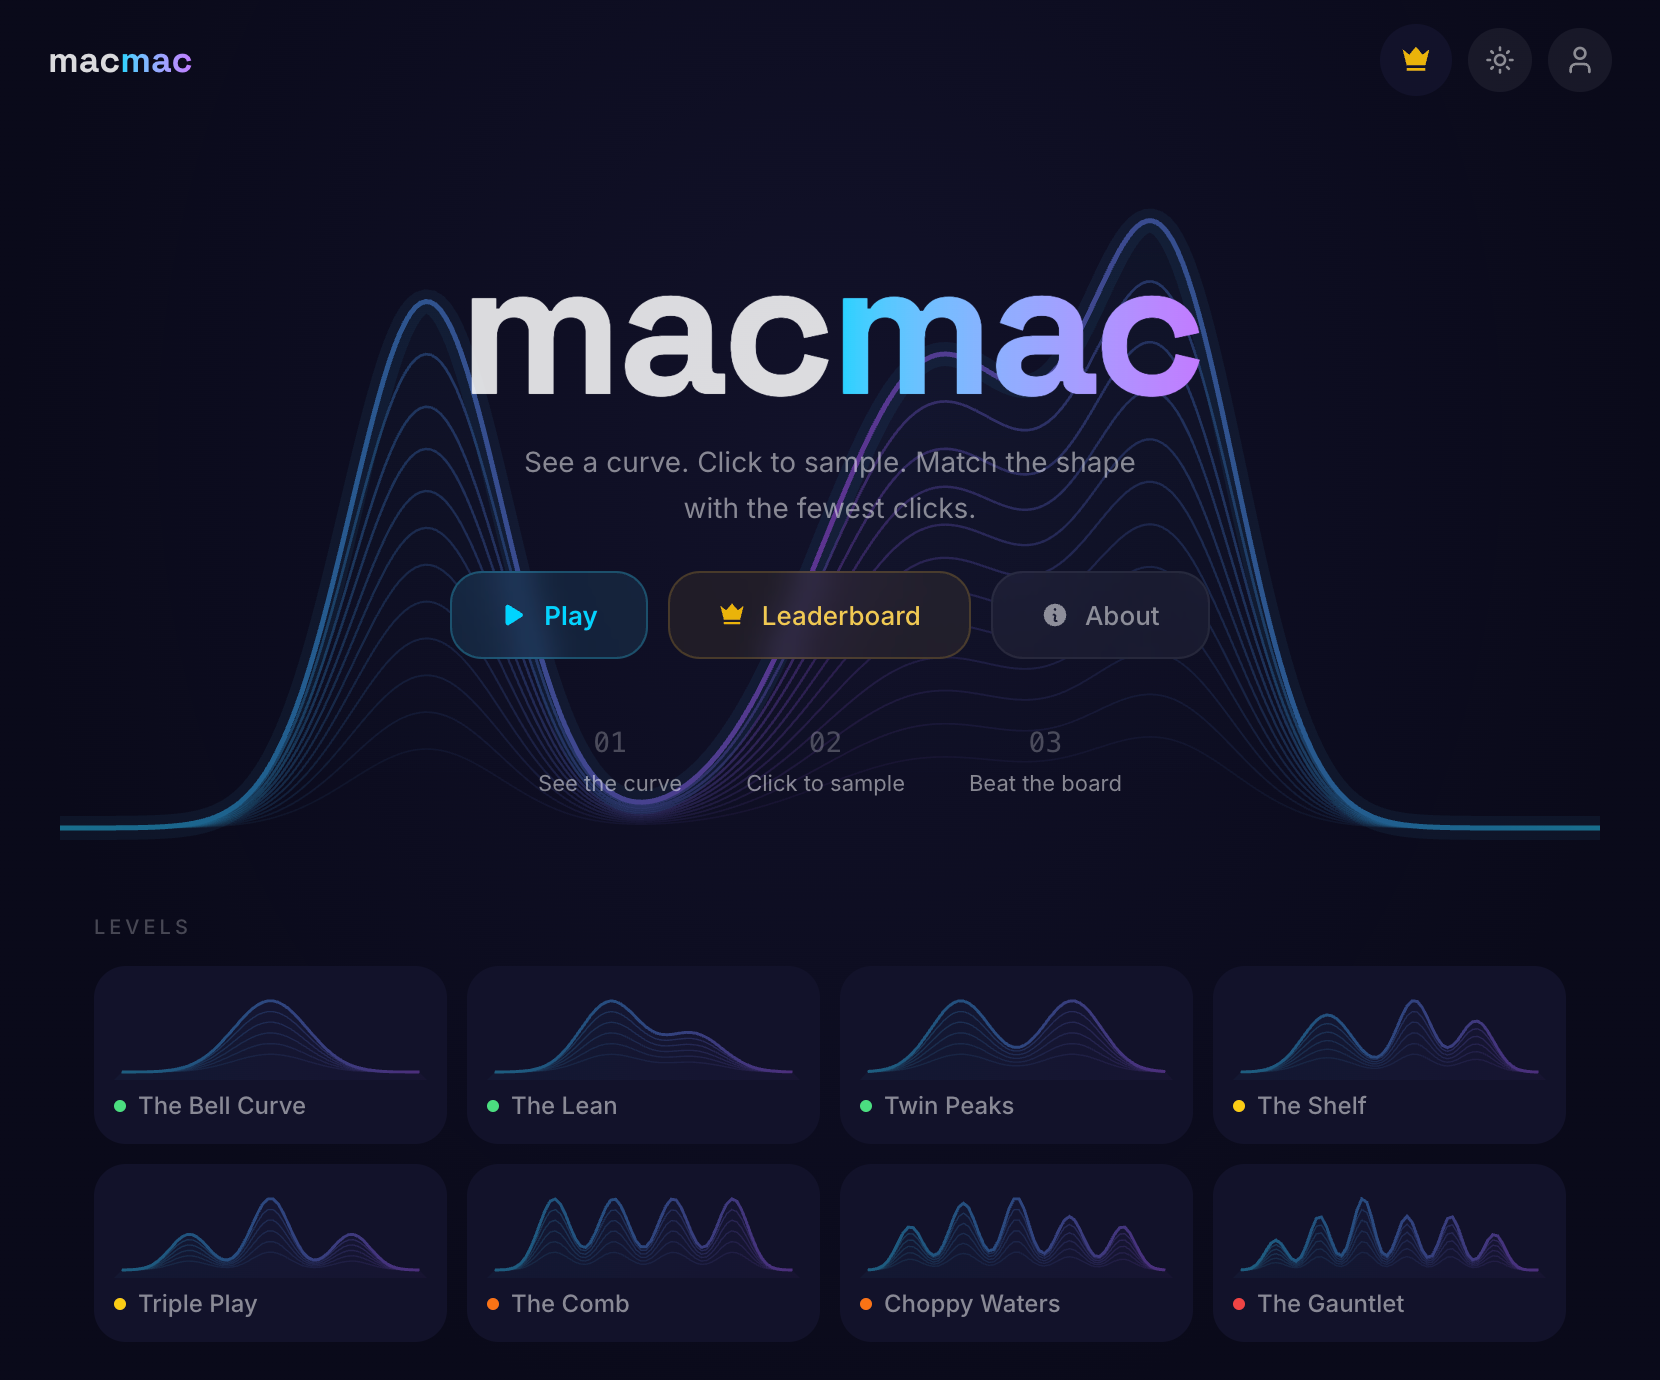
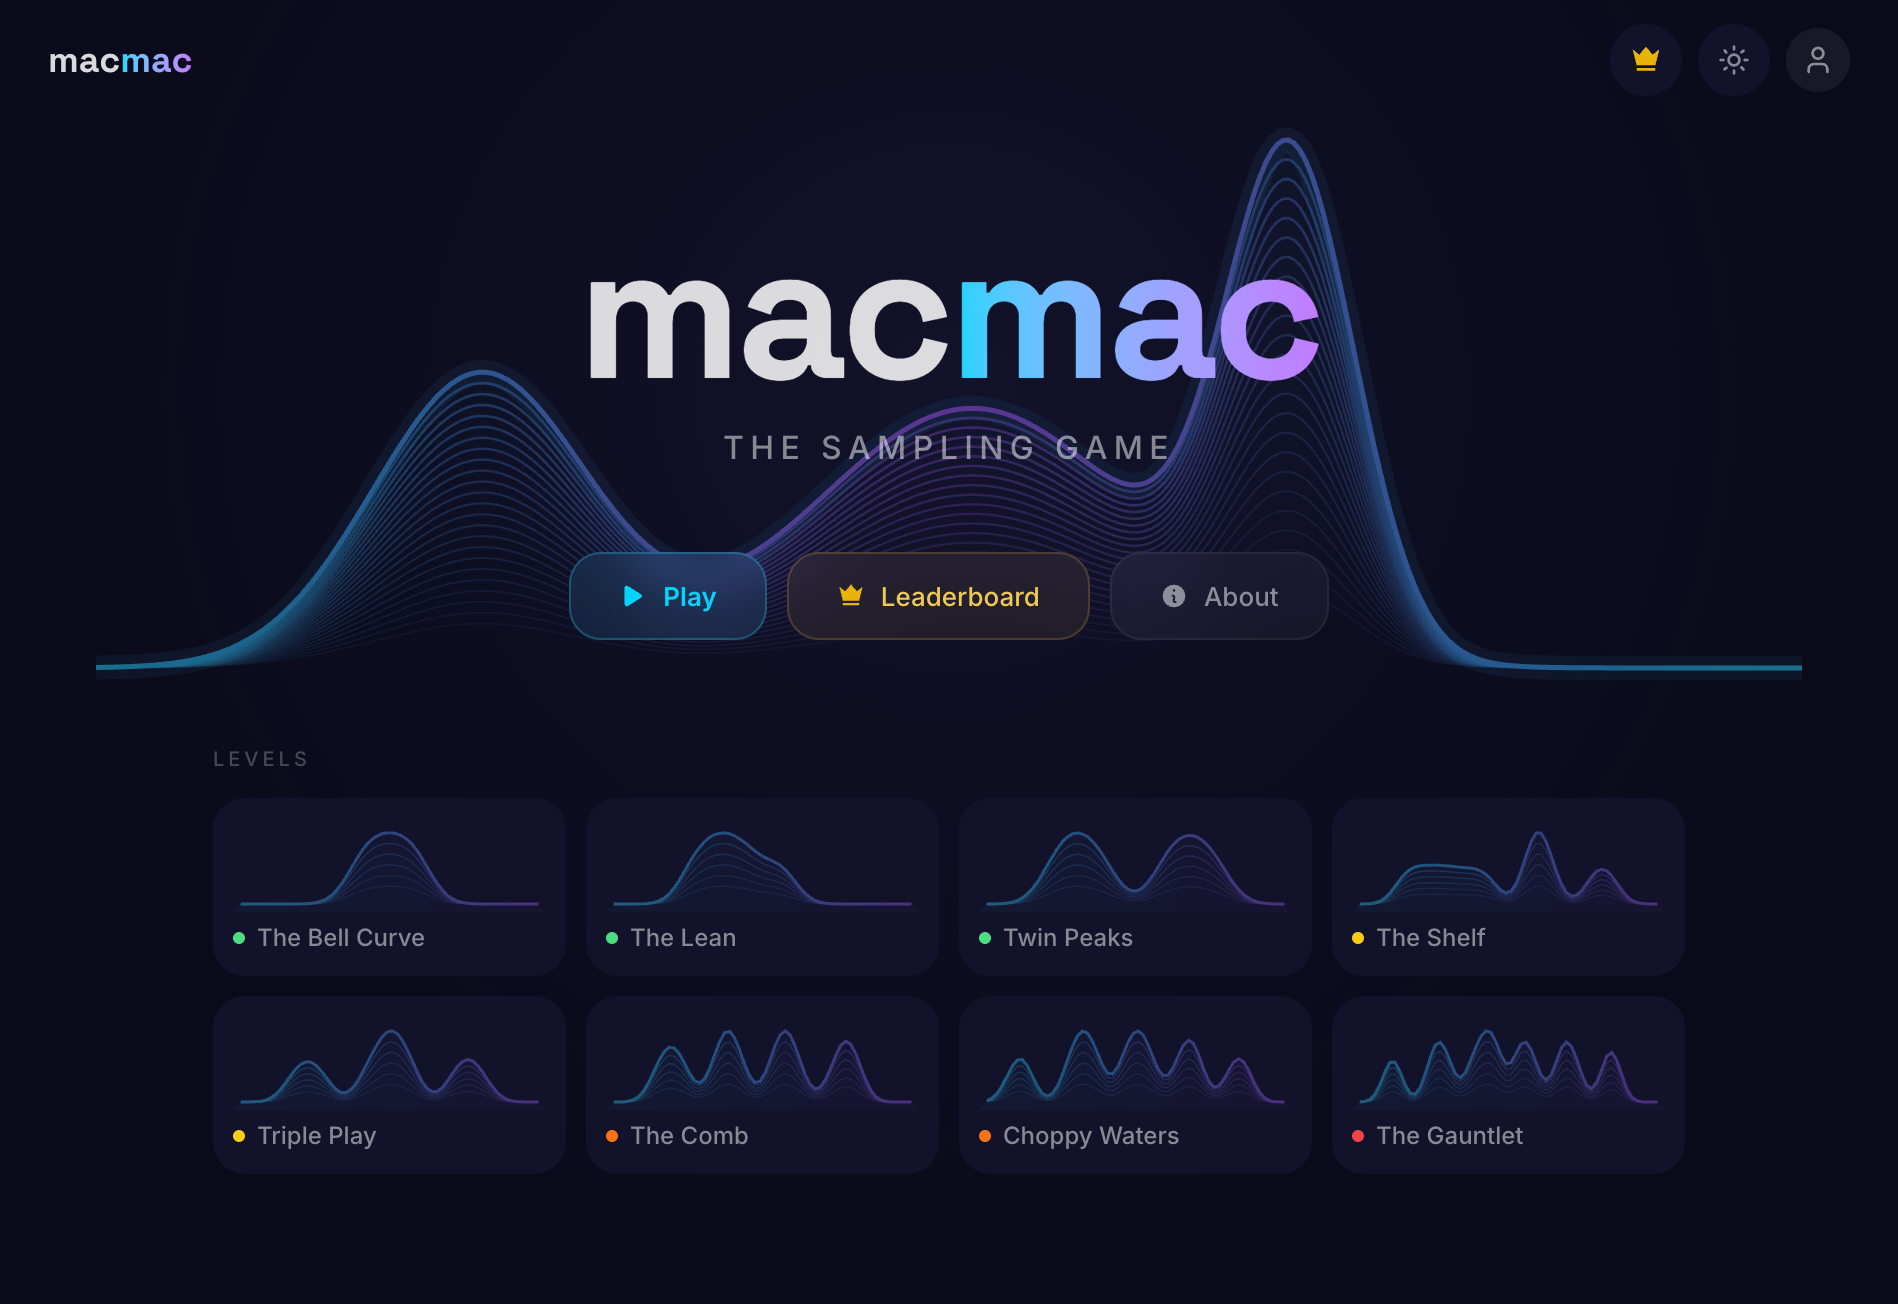
Update README with enhanced scoring details and level descriptions; improve tech stack clarity

diff --git a/README.md b/README.md
@@ -6,36 +6,37 @@ A game that builds intuition for [Markov Chain Monte Carlo](https://en.wikipedia
 
 ## How it works
 
-See a target probability density. Click to place samples. A kernel density estimate builds in real time to show how well your samples match the target shape.
+See a target probability density. Click to place samples. A [kernel density estimate](https://en.wikipedia.org/wiki/Kernel_density_estimation) builds in real time to show how well your samples match the target shape.
 
 Your score balances two objectives:
 
-- **Accuracy** — measured by [KL divergence](https://en.wikipedia.org/wiki/Kullback%E2%80%93Leibler_divergence) between the true distribution and your empirical one
-- **Efficiency** — fewer clicks means a higher score
+- **Shape match** — measured by mean squared error (MSE) between the peak-normalized target PDF and your KDE. Both curves are scaled so their maximum equals 1, then compared point-by-point. Up to 8,000 points.
+- **Time bonus** — up to 2,000 extra points for speed, decaying linearly to zero over 60 seconds.
 
-The best players find the sweet spot: enough samples to capture the distribution's shape, placed strategically where the density matters most — without wasting clicks.
+There is no explicit click penalty; time naturally penalizes extra clicks. The best players find the sweet spot: enough samples to capture the distribution's shape, placed strategically where the density matters most — without wasting time.
 
 ## Levels
 
 8 levels from easy to expert:
 
 | # | Name | Difficulty | Description |
-|---|------|-----------|-------------|
-| 1 | The Bell Curve | Easy | Standard normal — a gentle start |
-| 2 | Flat Land | Easy | Uniform distribution |
-| 3 | The Slide | Easy | Exponential decay |
-| 4 | Lean Right | Medium | Skewed (chi-squared) |
-| 5 | Twin Peaks | Medium | Bimodal mixture |
-| 6 | The Comb | Hard | Trimodal mixture |
-| 7 | The Skyscraper | Hard | Needle spike + broad background |
-| 8 | The Gauntlet | Expert | Spikes + uniform plateau + broad modes |
+|---|------|------------|-------------|
+| 1 | The Bell Curve | Easy | A gentle start |
+| 2 | The Lean | Easy | A subtle tilt |
+| 3 | Twin Peaks | Easy | Two hills to find |
+| 4 | The Shelf | Medium | Broad meets narrow |
+| 5 | Triple Play | Medium | Three modes, unequal |
+| 6 | The Comb | Hard | Four teeth to fill |
+| 7 | Choppy Waters | Hard | Five waves to ride |
+| 8 | The Gauntlet | Expert | Six peaks, no mercy |
 
 ## Tech stack
 
-- [SvelteKit 5](https://svelte.dev/) + TypeScript
+- [Svelte 5](https://svelte.dev/) + [SvelteKit](https://kit.svelte.dev/) + TypeScript
 - [Tailwind CSS v4](https://tailwindcss.com/)
 - [Drizzle ORM](https://orm.drizzle.team/) + [Turso](https://turso.tech/) (libSQL)
-- [KaTeX](https://katex.org/) for math rendering
+- [Better Auth](https://www.better-auth.com/) for GitHub & Google sign-in
+- [KaTeX](https://katex.org/) for math rendering on the About page
 - Canvas API for game visualization
 - Deployed on [Vercel](https://vercel.com/)
 
@@ -59,10 +60,12 @@ For local development with a file-based SQLite database, set:
 DATABASE_URL=file:local.db
 ```
 
+For sign-in to work, add your OAuth credentials (GitHub and/or Google). See `.env.example` for all options.
+
 Push the database schema and start the dev server:
 
 ```bash
-npx drizzle-kit push
+npm run db:push
 npm run dev
 ```
 
@@ -73,7 +76,9 @@ The app is configured for Vercel with a Turso database:
 1. Create a free [Turso](https://turso.tech/) database
 2. Push to GitHub
 3. Import the repo in [Vercel](https://vercel.com/)
-4. Set environment variables: `DATABASE_URL`, `DATABASE_AUTH_TOKEN`, `ORIGIN`, `BETTER_AUTH_SECRET`
+4. Set environment variables:
+   - **Required:** `DATABASE_URL`, `DATABASE_AUTH_TOKEN`, `ORIGIN`, `BETTER_AUTH_SECRET`
+   - **For sign-in:** `GITHUB_CLIENT_ID`, `GITHUB_CLIENT_SECRET`, `GOOGLE_CLIENT_ID`, `GOOGLE_CLIENT_SECRET`
 5. Deploy
 
 ## Created by
